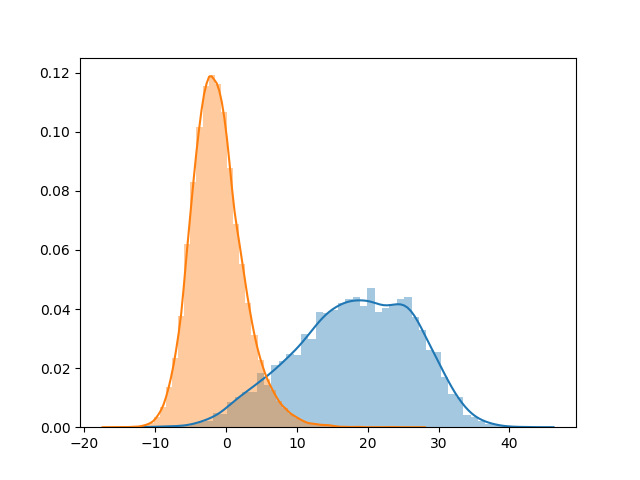
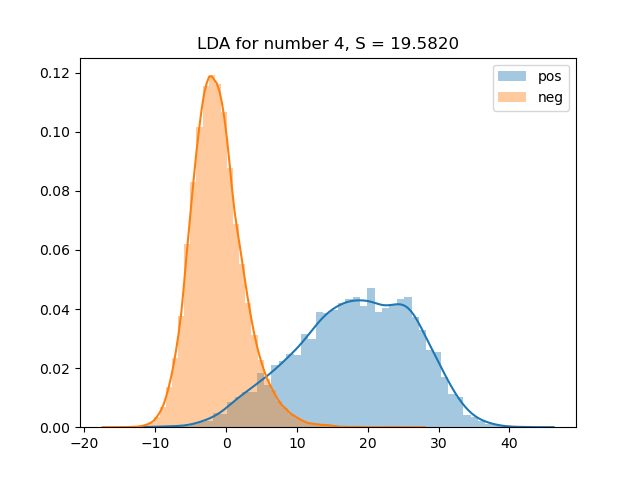
better plot for LDA

diff --git a/LDA/LDAplot.py b/LDA/LDAplot.py
@@ -3,11 +3,25 @@ import numpy as np
 import seaborn as sns
 import pickle
 
+def calc_mu_sigma2(X):
+    X = np.array(X)
+    mu = np.mean(X)
+    sigma2 = np.mean(X * X) - mu * mu
+    return mu, sigma2
+
 with open('./proj_for_plot.pkl', 'rb') as f:
     proj_for_plot = pickle.load(f)
 
 for idx in range(10):
-    sns.distplot(proj_for_plot[idx][0], bins=50)
-    sns.distplot(proj_for_plot[idx][1], bins=50)
+    ax = sns.distplot(proj_for_plot[idx][0], bins=50, label='pos')
+    ax = sns.distplot(proj_for_plot[idx][1], bins=50, label='neg')
+    mu_pos, sigma2_pos = calc_mu_sigma2(proj_for_plot[idx][0])
+    mu_neg, sigma2_neg = calc_mu_sigma2(proj_for_plot[idx][1])
+    n_pos, n_neg = len(proj_for_plot[idx][0]), len(proj_for_plot[idx][1])
+    n_pos, n_neg = n_pos / (n_pos + n_neg), n_neg / (n_pos + n_neg)
+    S = (mu_pos - mu_neg) ** 2 / (n_pos * sigma2_pos + n_neg * sigma2_neg)
+    print("idx:{}, S={:.4f}".format(idx, S))
+    ax.set_title('LDA for number {}, S = {:.4f}'.format(idx, S))
+    plt.legend()
     plt.savefig('./fig/{}.png'.format(idx))
     plt.clf()
